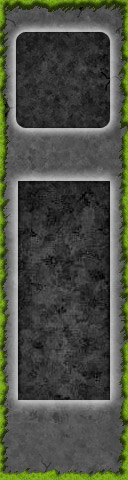
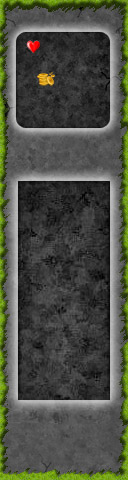
Display health, gold, wave on panel

Changed region(s): [[0.2812, 0.125, 0.4375, 0.1875], [0.2188, 0.0625, 0.3125, 0.125]]

diff --git a/src/js/tower.js b/src/js/tower.js
@@ -97,27 +97,28 @@ function Tower(image, x, y, type, damage, cost, width, height) {
         width: width || cellSize,
         height: height || cellSize
     });
-    this.bullet = new Kinetic.Circle({
-        x: x+5,
-        y: y+3,
-        fill: 'black',
-        width: 5,
-        height: 5,
-        visible: false
-    });
+    if (type != 'foundation') {
+        this.bullet = new Kinetic.Circle({
+            x: x+5,
+            y: y+3,
+            fill: 'black',
+            width: 5,
+            height: 5,
+            visible: false
+        });
+        this.bulletTween = new Kinetic.Tween({
+            node: this.bullet,
+            x: 420,
+            duration: 0.3,
+            easing: Kinetic.Easings.Linear,
+            onFinish: function() {
+                this.reset();
+            }
+        });
+        towersLayer.add(this.bullet);
+    }
     towersLayer.add(this.image);
-    towersLayer.add(this.bullet);
     towersLayer.draw();
-
-    this.bulletTween = new Kinetic.Tween({
-        node: this.bullet,
-        x: 420,
-        duration: 0.3,
-        easing: Kinetic.Easings.Linear,
-        onFinish: function() {
-            this.reset();
-        }
-    });
 }
 
 var towerType; //stores the type of tower build
@@ -165,24 +166,32 @@ var mobsPassedCounter = 0;
 
 /**-----------------------------Right-panel var-----------------------------*/
 var rightPanel = new Kinetic.Image({
-    x: 21 * cellSize,
+    x: 21*cellSize,
     y: 0,
     image: images.rightPanel,
     width: 128,
     height: 480
 });
 var goldDisplay = new Kinetic.Text({
-    x: 75,
-    y: 5,
+    x: 23*cellSize-5,
+    y: 2*cellSize+10,
     text: '100',
     fontSize: 12,
     fontFamily: 'Calibri',
     fill: 'white'
 });
-var mobsPassedDisplay = new Kinetic.Text({
-    x: 215,
-    y: 5,
-    text: '0',
+var healthPoints = new Kinetic.Text({
+    x: 22*cellSize+12,
+    y: 1*cellSize+8,
+    text: '20',
+    fontSize: 12,
+    fontFamily: 'Calibri',
+    fill: 'white'
+});
+var waveNumber = new Kinetic.Text({
+    x: 23*cellSize,
+    y: 1*cellSize+8,
+    text: '1/20',
     fontSize: 12,
     fontFamily: 'Calibri',
     fill: 'white'
@@ -211,7 +220,7 @@ function startGame(){
     //findPath(map3,mapBeginCell3,mapEndCell3);
 //    findPath(map3,mapEndCell3,mapBeginCell3);
 
-    afterBgCreating();
+    setTimeout(afterBgCreating, 50);
     //createMonsters();
     //createMonstersTweens();
     //monstersMove();
@@ -306,14 +315,17 @@ function monstersMove(currentMonsterTween){
 function afterBgCreating() { //run, after background is creating
     bgLayer.add(beingConstructedRect);
     bgLayer.add(beingConstructedTower);
-    bgLayer.add(goldDisplay);
-    bgLayer.add(mobsPassedDisplay);
     bgLayer.add(rightPanel);
+    bgLayer.add(goldDisplay);
+    bgLayer.add(healthPoints);
+    bgLayer.add(waveNumber);
+    
+    buildTowersMenu();
+    buildBases();
+    
     stage.add(bgLayer);
     stage.add(rightPanelLayer);
     stage.add(towersLayer);
-    buildTowersMenu();
-    buildBases();
     //setInterval(shoot, 100);
 }
 
@@ -378,10 +390,10 @@ bgLayer.on('mouseup', function(){
             towersArray.push(newTower);
             busyCells.push({x: mouseX, y: mouseY}); //add tower rectangle to busy cells array
 
-            /* test tween (temporary)*/
-            towersArray[towersArray.length-1].bullet.show();
-            towersArray[towersArray.length-1].bulletTween.play();
-
+            beingConstructedRect.hide();
+            beingConstructedTower.hide();
+            isBuildingNow = false;
+        } else {
             beingConstructedRect.hide();
             beingConstructedTower.hide();
             isBuildingNow = false;
